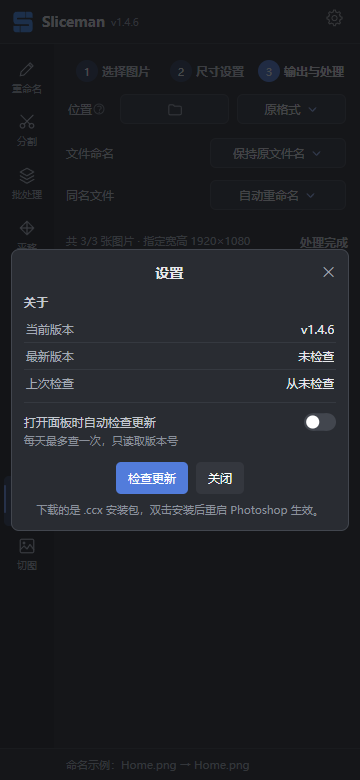
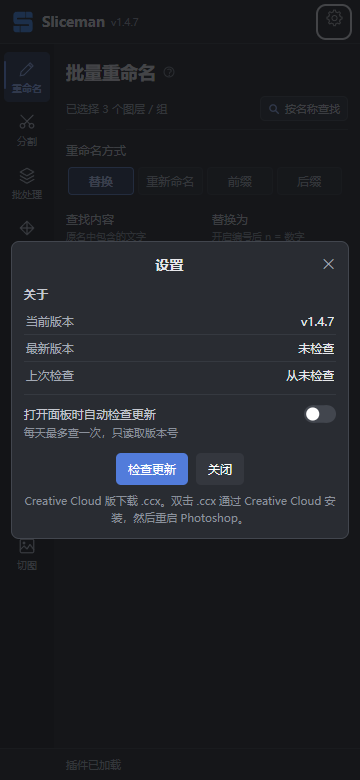
Release v1.4.7: fix update downloads by installation edition

diff --git a/tests/update-core.test.js b/tests/update-core.test.js
@@ -44,9 +44,34 @@ describe('附件挑选', () => {
   const ccx = { name: 'Sliceman_v1.3.0.ccx', browser_download_url: 'https://x/a.ccx', size: 207360 };
   const zip = { name: 'Sliceman_v1.3.0.zip', browser_download_url: 'https://x/a.zip', size: 207360 };
 
-  it('优先 .ccx（双击即装），没有才退 .zip', () => {
+  it('Creative Cloud 版只选 CCX，没有对应包不退到普通 ZIP', () => {
     expect(pickAsset([zip, ccx]).name).toBe('Sliceman_v1.3.0.ccx');
-    expect(pickAsset([zip]).name).toBe('Sliceman_v1.3.0.zip');
+    expect(pickAsset([zip])).toBe(null);
+  });
+
+  const localId = 'com.sliceman.plugin.local';
+  const setup = { name: 'Sliceman_Setup_v1.3.0.zip', browser_download_url: 'https://x/setup.zip', size: 320000 };
+  it('一键安装版无论附件顺序如何都只选 Setup', () => {
+    expect(pickAsset([ccx, zip, setup], localId)?.name).toBe(setup.name);
+    expect(pickAsset([setup, zip, ccx], localId)?.name).toBe(setup.name);
+  });
+  it('一键安装版缺少 Setup 时不误选 CCX、普通 ZIP 或源码 ZIP', () => {
+    expect(pickAsset([ccx, zip, { name: 'Source-code.zip', browser_download_url: 'https://x/source.zip' }], localId)).toBe(null);
+  });
+  it('Creative Cloud 版缺少 CCX 时不误选 Setup', () => {
+    expect(pickAsset([setup], 'com.sliceman.plugin')).toBe(null);
+  });
+  it('只选择本次 Release 对应版本的安装包，跳过旧附件', () => {
+    const fresh = { ...setup, name: 'Sliceman_Setup_v1.4.6.zip' };
+    expect(pickAsset([setup, fresh], localId, '1.4.6')?.name).toBe(fresh.name);
+    expect(pickAsset([ccx], 'com.sliceman.plugin', '1.4.6')).toBe(null);
+  });
+  it('附件扩展名大小写兼容，未上传完成的附件不可选择', () => {
+    expect(pickAsset([{ ...setup, name: setup.name.toUpperCase() }], localId)?.name).toBe(setup.name.toUpperCase());
+    expect(pickAsset([{ ...setup, state: 'new' }], localId)).toBe(null);
+  });
+  it('其他产品的 CCX 附件不作为 Sliceman 更新包', () => {
+    expect(pickAsset([{ name: 'OtherPlugin_v1.3.0.ccx', browser_download_url: 'https://x/other.ccx' }])).toBe(null);
   });
 
   it('没有可下载的附件时返回 null，不炸', () => {
@@ -152,6 +177,45 @@ describe('Release 报文解析', () => {
     expect(downloadUrlOf(parseRelease(json, '1.2.0'))).toBe('https://x/a.ccx');
     expect(downloadUrlOf(parseRelease({ ...json, assets: [] }, '1.2.0'))).toBe(json.html_url);
     expect(downloadUrlOf(null)).toBe(LATEST_PAGE);
+  });
+
+  it('识别 v1.4.6，并按当前插件身份返回对应的安装包', () => {
+    const release = { ...json, tag_name: 'v1.4.6', assets: [
+      { name: 'Sliceman_v1.4.6.ccx', browser_download_url: 'https://x/v1.4.6.ccx' },
+      { name: 'Sliceman_Setup_v1.4.6.zip', browser_download_url: 'https://x/setup-v1.4.6.zip' },
+    ] };
+    const local = parseRelease(release, '1.4.5', 'com.sliceman.plugin.local');
+    const cc = parseRelease(release, '1.4.5', 'com.sliceman.plugin');
+    expect(local).toMatchObject({ ok: true, hasUpdate: true, version: '1.4.6' });
+    expect(downloadUrlOf(local)).toBe('https://x/setup-v1.4.6.zip');
+    expect(downloadUrlOf(cc)).toBe('https://x/v1.4.6.ccx');
+    expect(parseRelease(release, '1.4.6', 'com.sliceman.plugin.local').hasUpdate).toBe(false);
+    expect(parseRelease(release, '1.4.7', 'com.sliceman.plugin').hasUpdate).toBe(false);
+  });
+  it('缺少本安装版附件时打开发布页，保留新版提示', () => {
+    const local = parseRelease(json, '1.2.0', 'com.sliceman.plugin.local');
+    expect(local.hasUpdate).toBe(true);
+    expect(local.asset).toBe(null);
+    expect(downloadUrlOf(local)).toBe(json.html_url);
+  });
+
+  it('v1.4.6 安装版可发现 v1.4.7，升级后不再提示相同版本', () => {
+    const release = {
+      tag_name: 'v1.4.7',
+      assets: [
+        { name: 'Sliceman_v1.4.7.ccx', state: 'uploaded', browser_download_url: 'https://x/1.4.7.ccx' },
+        { name: 'Sliceman_Setup_v1.4.7.zip', state: 'uploaded', browser_download_url: 'https://x/setup-1.4.7.zip' },
+      ],
+    };
+    for (const [id, url] of [
+      ['com.sliceman.plugin', 'https://x/1.4.7.ccx'],
+      ['com.sliceman.plugin.local', 'https://x/setup-1.4.7.zip'],
+    ]) {
+      const info = parseRelease(release, '1.4.6', id);
+      expect(info.hasUpdate).toBe(true);
+      expect(downloadUrlOf(info)).toBe(url);
+      expect(parseRelease(release, '1.4.7', id).hasUpdate).toBe(false);
+    }
   });
 });
 

diff --git a/src/lib/update-core.js b/src/lib/update-core.js
@@ -1,7 +1,7 @@
 // 检查更新的纯逻辑：版本号比较、GitHub Release 报文解析、更新说明转成可直接渲染的行。
 // 这里不碰 DOM，也不碰 photoshop/uxp —— 网络请求由调用方把 fetch 传进来
 //（见 fetchLatestRelease 的第一个参数），Node 里就能用假 fetch 把「超时 / 限流 /
-// 报文缺字段 / 没有 .ccx 附件」这些分支全测一遍，不用开 PS。
+// 报文缺字段 / 没有对应安装包」这些分支全测一遍，不用开 PS。
 //
 // 更新源用 GitHub 的 releases/latest 接口：它只返回【最新的正式发布】，草稿与
 // pre-release 会被它自己过滤掉，插件这边不用再判断一次。
@@ -11,7 +11,7 @@ export const REPO_NAME = 'Sliceman';
 
 /** 最新正式版的 JSON 接口（要在 manifest 的 requiredPermissions.network.domains 里放行） */
 export const LATEST_API = `https://api.github.com/repos/${REPO_OWNER}/${REPO_NAME}/releases/latest`;
-/** 最新正式版的网页（拿不到 .ccx 直链时退回这个，让浏览器去打开发布页） */
+/** 最新正式版的网页（拿不到对应安装包直链时退回这个） */
 export const LATEST_PAGE = `https://github.com/${REPO_OWNER}/${REPO_NAME}/releases/latest`;
 
 /** 一次检查最多等多久（UXP 里 fetch 卡住不会自己醒，必须外面计时） */
@@ -85,14 +85,26 @@ export function isNewer(remote, local) {
   return compareVersions(remote, local) > 0;
 }
 
+/** 本地一键安装版的构建会同时替换 manifest 文件和面板导入的身份。 */
+export function isLocalEdition(pluginId) {
+  return pluginId === 'com.sliceman.plugin.local';
+}
+
 /**
- * 从 Release 的附件里挑一个能下载的包：优先 .ccx（双击就能装），退而求其次 .zip。
+ * 按安装身份挑选本次 Release 的包；缺包时不跨安装方式回退。
  * @returns {{name:string, url:string, size:number}|null}
  */
-export function pickAsset(assets) {
+export function pickAsset(assets, pluginId = '', version = '') {
   const list = Array.isArray(assets) ? assets : [];
-  const usable = list.filter((a) => a && a.browser_download_url && a.name);
-  const hit = usable.find((a) => /\.ccx$/i.test(a.name)) || usable.find((a) => /\.zip$/i.test(a.name));
+  const pattern = isLocalEdition(pluginId)
+    ? /^Sliceman_Setup_v(.+)\.zip$/i
+    : /^Sliceman_v(.+)\.ccx$/i;
+  const hit = list.find((a) => {
+    if (!a || !a.browser_download_url || (a.state && a.state !== 'uploaded')) return false;
+    const match = pattern.exec(String(a.name || ''));
+    if (!match || !parseVersion(match[1]).ok) return false;
+    return !version || (parseVersion(version).ok && compareVersions(match[1], version) === 0);
+  });
   if (!hit) return null;
   return {
     name: String(hit.name),
@@ -162,18 +174,19 @@ function cleanInline(s) {
  * 把 Release 报文整理成面板要用的形状。
  * @param {object} json releases/latest 的返回
  * @param {string} current 本地版本（manifest.version）
+ * @param {string} pluginId 当前安装身份（manifest.id）
  * @returns {{ok:boolean, reason?:string, version:string, tag:string, title:string,
  *            publishedAt:string, pageUrl:string, asset:object|null,
  *            notes:Array, hasUpdate:boolean}}
  */
-export function parseRelease(json, current) {
+export function parseRelease(json, current, pluginId) {
   const j = json && typeof json === 'object' ? json : {};
   const tag = String(j.tag_name ?? '').trim();
   const version = tag.replace(/^[vV]/, '');
   if (!parseVersion(version).ok) {
     return { ok: false, reason: 'GitHub 返回的内容里没有版本号', hasUpdate: false, notes: [] };
   }
-  const asset = pickAsset(j.assets);
+  const asset = pickAsset(j.assets, pluginId, version);
   return {
     ok: true,
     version,
@@ -187,7 +200,7 @@ export function parseRelease(json, current) {
   };
 }
 
-/** 点「下载新版本」时该打开哪个网址：有 .ccx 直链就直接下，没有就打开发布页 */
+/** 点「下载新版本」时该打开哪个网址：有对应安装包直链就直接下，否则打开发布页 */
 export function downloadUrlOf(info) {
   if (info && info.asset && info.asset.url) return info.asset.url;
   if (info && info.pageUrl) return info.pageUrl;

diff --git a/src/ui/panel.js b/src/ui/panel.js
@@ -44,7 +44,7 @@ import {
   readGuidesVisible, readGuidesLocked, toggleGuidesVisible, toggleGuidesLock,
 } from '../ps/guides.js';
 import {
-  fetchLatestRelease, parseRelease, downloadUrlOf, isNewer, LATEST_PAGE,
+  fetchLatestRelease, parseRelease, downloadUrlOf, isNewer, isLocalEdition, LATEST_PAGE,
   shouldAutoCheck, formatTime, formatDate, formatSize, describeError,
 } from '../lib/update-core.js';
 import manifest from '../manifest.json';
@@ -4449,15 +4449,19 @@ if (versionEl) versionEl.textContent = 'v' + manifest.version;
 // ⚠ 联网要 manifest 的 requiredPermissions.network.domains 放行 api.github.com，
 //    而权限是【装载插件时】读的：从旧版升上来的用户不重装插件，fetch 会被直接拒掉
 //    （describeError 里专门给这种情况留了一句提示）。
-// ⚠ 插件装不了插件：点「下载新版本」是把 .ccx 直链交给系统浏览器
+// ⚠ 插件装不了插件：点「下载新版本」是把当前安装版对应的直链交给系统浏览器
 //    （uxp.shell.openExternal，manifest 里 launchProcess 已放行 https），
-//    下完仍然要用户双击让 Creative Cloud 装上。
+//    下完仍然要用户运行对应安装包。
 
 const ST_AUTO_KEY = 'update.autoCheck';       // '1'/'0'：开不开「打开面板时自动检查」
 const ST_LAST_KEY = 'update.lastChecked';     // 上次检查的时间戳，节流用
 const ST_SEEN_KEY = 'update.seenVersion';     // 已经知道的那个新版本号，用来决定红点亮不亮
 
 const stEl = (id) => document.getElementById(id);
+const stLocal = isLocalEdition(manifest.id);
+const stInstallSteps = stLocal
+  ? '完整解压 Setup 包，双击“一键安装.exe”，保存并退出 Photoshop 后完成安装，再重新打开 Photoshop。'
+  : '双击 .ccx 通过 Creative Cloud 安装，然后重启 Photoshop。';
 let stInfo = null;            // 最近一次查到的 parseRelease 结果
 let stBusy = false;           // 正在查：按钮置灰，避免连点打接口
 let stFallback = false;       // 上一次检查失败了：下载按钮退化成「前往下载页」
@@ -4547,7 +4551,7 @@ async function stCheck(silent) {
     // 换个名字调用会被当成「非法调用」直接抛（浏览器里就是 Illegal invocation）
     const call = typeof fetch === 'function' ? (u, o) => fetch(u, o) : null;
     const json = await fetchLatestRelease(call);
-    const info = parseRelease(json, manifest.version);
+    const info = parseRelease(json, manifest.version, manifest.id);
     if (!info.ok) throw new Error(info.reason);
     prefSet(ST_LAST_KEY, String(Date.now()));
     // 记下「查到的版本」而不是「有没有更新」：下次本地升级到这个版本后，
@@ -4584,6 +4588,8 @@ async function stCheck(silent) {
 function stOpen() {
   const cur = stEl('stCurVer');
   if (cur) cur.textContent = 'v' + manifest.version;
+  const hint = stEl('stInstallHint');
+  if (hint) hint.textContent = (stLocal ? '本地一键安装版下载 Setup ZIP。' : 'Creative Cloud 版下载 .ccx。') + stInstallSteps;
   stRenderCheckedAt();
   if (stInfo) stRenderResult(stInfo);
   else {
@@ -4612,9 +4618,10 @@ stEl('stDownloadBtn').addEventListener('click', async () => {
   try {
     const { shell } = require('uxp');
     await shell.openExternal(url);
-    stSetMsg(/\.ccx$/i.test(url)
-      ? '已在浏览器中开始下载，下载完双击 .ccx 安装，然后重启 Photoshop。'
-      : '已在浏览器中打开发布页，下载 .ccx 后双击安装，然后重启 Photoshop。', 'good');
+    const direct = !stFallback && !!stInfo?.asset;
+    stSetMsg((direct
+      ? '已在浏览器中开始下载。'
+      : `已在浏览器中打开发布页，请选择 ${stLocal ? 'Sliceman_Setup_v*.zip' : 'Sliceman_v*.ccx'}。`) + stInstallSteps, 'good');
   } catch (e) {
     // 打不开就把地址显示出来，用户还能自己复制
     stSetMsg(`打不开浏览器（${String(e && e.message || e)}），请手动访问：${url}`, 'err');

diff --git a/src/ui/index.html b/src/ui/index.html
@@ -17,7 +17,7 @@
             </g>
           </svg></span>
           <span class="brand-name">Sliceman</span>
-          <span class="version" id="version">v1.4.6</span>
+          <span class="version" id="version">v1.4.7</span>
         </div>
           <div class="rail-foot" id="settingsBtn" title="设置" role="button" tabindex="0" aria-label="设置">
             <svg class="ic-btn" xmlns="http://www.w3.org/2000/svg" viewBox="0 0 128 128" role="img" aria-label="settings">
@@ -1469,7 +1469,7 @@
           <div id="stCheckBtn" class="blue" role="button" tabindex="0">检查更新</div>
           <div id="stCloseBtn" class="muted" role="button" tabindex="0">关闭</div>
         </div>
-        <p class="st-hint">下载的是 .ccx 安装包，双击安装后重启 Photoshop 生效。</p>
+      <p class="st-hint" id="stInstallHint"></p>
       </div>
     </div>
 

diff --git a/tests/ui-ids.test.js b/tests/ui-ids.test.js
@@ -502,7 +502,7 @@ describe('设置 / 检查更新 的契约', () => {
 
   it('检查更新读的是 manifest.version，不是写死的版本号', () => {
     // 写死一个版本号，发版时忘了同步就会「永远提示有更新」或「永远不提示」
-    expect(js).toContain("parseRelease(json, manifest.version)");
+    expect(js).toContain("parseRelease(json, manifest.version, manifest.id)");
     expect(js).toContain("isNewer(seen, manifest.version)");
   });
 

diff --git a/README.md b/README.md
@@ -15,7 +15,7 @@
   <a href="#faq">常见问题</a>
 </p>
 
-<p align="center"><sub>适用版本 v1.4.6 · Photoshop 23.3 及以上 · Windows / macOS 快捷键按系统对应使用</sub></p>
+<p align="center"><sub>适用版本 v1.4.7 · Photoshop 23.3 及以上 · Windows / macOS 快捷键按系统对应使用</sub></p>
 
 ---
 
@@ -29,7 +29,7 @@
 | 拆开素材，分别转智能对象或建组 | 绘制表格、创建定位格 | 按图层颜色或定位格导出图片 |
 | **让源文件更清楚** | **让画面更规整** | **让输出更省事** |
 
-> 界面图片来自 v1.4.6 的实际 HTML/CSS 浏览器渲染，使用示例数据，非 Photoshop 实机截图。绘制的示意图用于解释行为，未标尺寸的图形不代表精确比例。点击示意图可打开原图查看细节。
+> 界面图片来自 v1.4.6 / v1.4.7 的实际 HTML/CSS 浏览器渲染（设置窗口已更新为 v1.4.7），使用示例数据，非 Photoshop 实机截图。绘制的示意图用于解释行为，未标尺寸的图形不代表精确比例。点击示意图可打开原图查看细节。
 
 <a id="start"></a>
 
@@ -44,7 +44,7 @@
 | **Creative Cloud 版** | `Sliceman_v版本号.ccx` | 通过 Adobe 安装管理插件的用户；Windows / macOS | 已安装并登录 Creative Cloud 桌面端 |
 | **一键安装版** | `Sliceman_Setup_v版本号.zip` | 希望直接运行安装程序的 Windows 用户 | 完整解压安装包；不需要 Creative Cloud |
 
-打开 [Release 下载页](https://github.com/dashuaigc/Sliceman/releases/latest)，展开 **Assets（资源）**，按上表选择文件。以 v1.4.6 为例：Creative Cloud 版选 `Sliceman_v1.4.6.ccx`，一键安装版选 `Sliceman_Setup_v1.4.6.zip`。以后有新版时，以页面上的最新版本号为准。
+打开 [Release 下载页](https://github.com/dashuaigc/Sliceman/releases/latest)，展开 **Assets（资源）**，按上表选择文件。以 v1.4.7 为例：Creative Cloud 版选 `Sliceman_v1.4.7.ccx`，一键安装版选 `Sliceman_Setup_v1.4.7.zip`。以后有新版时，以页面上的最新版本号为准。
 
 > **认准文件名**：一键安装包必须带有 **`Setup`**。普通的 `Sliceman_v版本号.zip` 和 GitHub 自动生成的 `Source code` 源码包，不是这里的一键安装包。
 
@@ -86,7 +86,7 @@
 
 **卸载**：在解压后的安装包目录中，双击橙红色减号图标的 **「卸载.exe」**，再点击 **「确认卸载」**。仅打开卸载窗口不会执行卸载，也不需要输入数字。Photoshop 仍在运行时，同样先保存并退出，再等待“卸载完成”。本地版用户设置会保留，方便以后重装。
 
-**不要混用更新包**：一键安装版面板里的“检查更新”仍会连接项目发布页；下载 `.ccx` 不会升级一键安装版，请继续选带 `Setup` 的 ZIP。
+**自动选择安装格式**：从 v1.4.7 起，一键安装版的“下载新版本”会选择 Setup ZIP，Creative Cloud 版会选择 `.ccx`。缺少对应包时打开发布页。v1.4.6 及以前的一键安装版首次升级，请手动从发布页选择 Setup ZIP；`.ccx` 不会升级本地版。
 
 ### 安装后找不到插件怎么办？
 
@@ -1053,6 +1053,12 @@ Symbols 的输出框由定位格和内容边界决定，不使用这个开关；
 
 ## 更新与反馈
 
+### v1.4.7 · 修复更新包选择
+
+- **安装格式**：一键安装版下载对应版本的 Setup ZIP，Creative Cloud 版下载 `.ccx`，不再混用。
+- **缺包处理**：缺少本安装版的附件时打开发布页，不会误选普通 ZIP、源码包或其他版本的附件。
+- **设置提示**：安装步骤随当前安装版切换；已验证 v1.4.6 的识别与 v1.4.7 的升级判断。
+
 ### v1.4.6 · 定位格间距与智能对象内部批量粘贴
 
 - **定位格**：新增可留空的对象间距输入框，填写后统一控制横向与纵向间隔；留空沿用旧版自动值，支持 0 px。
@@ -1069,12 +1075,16 @@ Symbols 的输出框由定位格和内容边界决定，不使用这个开关；
 | Creative Cloud 版 | `Sliceman_v版本号.ccx` | 双击 CCX，通过 Creative Cloud 完成安装，再重启 Photoshop |
 | 一键安装版（Windows） | `Sliceman_Setup_v版本号.zip` | 完整解压后运行「一键安装.exe」，按提示保存并退出 Photoshop，等待「安装完成」后重启 |
 
-> 一键安装版的“检查更新”同样连接项目发布页，但 `.ccx` **不会升级一键安装版**。请认准带 `Setup` 的 ZIP，不要直接运行压缩包里的 EXE。详细流程见 [下载安装](#start)。
+> **旧版首次升级**：v1.4.6 及以前的一键安装版仍带有旧下载逻辑，请手动从发布页选择 Setup ZIP 安装 v1.4.7；之后的更新会自动选择正确格式。请完整解压后运行 EXE。详细流程见 [下载安装](#start)。
 
 <details>
-<summary><strong>查看设置窗口</strong></summary>
+<summary><strong>查看两种安装版的设置窗口</strong></summary>
 
-<p align="center"><img src="docs/screenshots/17-settings.png" width="280" alt="设置窗口：版本信息、自动检查更新和手动检查按钮"></p>
+<p align="center"><strong>Creative Cloud 版 · 下载 CCX</strong></p>
+<p align="center"><img src="docs/screenshots/17-settings.png" width="280" alt="Creative Cloud 版设置窗口：下载 CCX 与安装提示"></p>
+
+<p align="center"><strong>一键安装版 · 下载 Setup ZIP</strong></p>
+<p align="center"><img src="docs/screenshots/21-settings-local.png" width="280" alt="一键安装版设置窗口：下载 Setup ZIP 与安装提示"></p>
 
 </details>
 

diff --git a/docs/releases/v1.4.7.md b/docs/releases/v1.4.7.md
@@ -1,0 +1,23 @@
+## 更新内容
+
+- 修复一键安装版检查更新时误选 CCX 的问题：本地版只下载对应版本的 `Sliceman_Setup_v*.zip`，Creative Cloud 版只下载 `Sliceman_v*.ccx`。
+- 缺少对应附件时打开发布页，不再回退到其他安装格式、普通 ZIP、源码包或旧版本附件。
+- 设置窗口和下载后的安装提示随当前安装版切换；版本比较已验证可正确识别 v1.4.6 和 v1.4.7。
+- README 与 GitHub Pages 同步更新升级说明和两种安装版的设置截图，保持原有手册格式。
+
+## 安装
+
+两种安装格式功能相同，任选一种即可：
+
+| 安装方式 | 下载文件 | 使用方法 |
+| :--- | :--- | :--- |
+| Creative Cloud 版（Windows / macOS） | **Sliceman_v1.4.7.ccx** | 双击，通过 Creative Cloud 安装后重启 Photoshop |
+| 本地一键安装版（Windows） | **Sliceman_Setup_v1.4.7.zip** | 完整解压，双击“一键安装.exe”；若 PS 正在运行，保存并退出后自动继续 |
+
+**旧版首次升级**：已安装的 v1.4.6 及以前一键安装版仍带有旧下载逻辑，请在本页 Assets 中手动下载 Setup ZIP 安装 v1.4.7。此次升级后，后续更新会自动选对格式。CCX 不会升级本地版；请勿在 ZIP 内直接运行 EXE。Photoshop 最低要求为 23.3。
+
+## 验证
+
+- 自动化回归覆盖版本比较、两种安装包选择、缺包回退和附件版本匹配。
+- 对正式版与本地版的实际构建进行了浏览器交互验证：下载地址、安装提示、网络失败回退及 300 / 360 / 480 px 面板宽度。
+- 发行包版本、插件身份、文件完整性及安装器隔离安装/卸载已检查。浏览器预览使用宿主模拟数据，不能替代 Photoshop 实机验证。

diff --git a/docs/plans/2026-11-10-update-edition.md b/docs/plans/2026-11-10-update-edition.md
@@ -1,0 +1,11 @@
+# v1.4.7 更新包分流修复
+
+用户确认以 v1.4.7 补丁发布，保留 v1.4.6。
+
+1. 复现旧选择器让本地版下载 CCX；用真实 v1.4.6 Release 数据核对版本比较。
+2. 从构建内的 manifest.id 判定安装版，只选择当前 Release 版本的 Setup ZIP 或 CCX；缺包转发布页。
+3. 设置与下载提示按安装版显示，并测试附件顺序、缺包、错误版本、非产品附件、网络失败。
+4. 更新版本、README、Pages 和两种设置截图。说明旧本地版须手动选择 Setup 完成首次升级。
+5. 测试、构建、隔离安装验证与审查后发布两个安装资产；回读最新 API、下载哈希与 Pages 部署结果。
+
+验证边界：浏览器使用宿主桩，未声称完成 Photoshop 实机验证。
